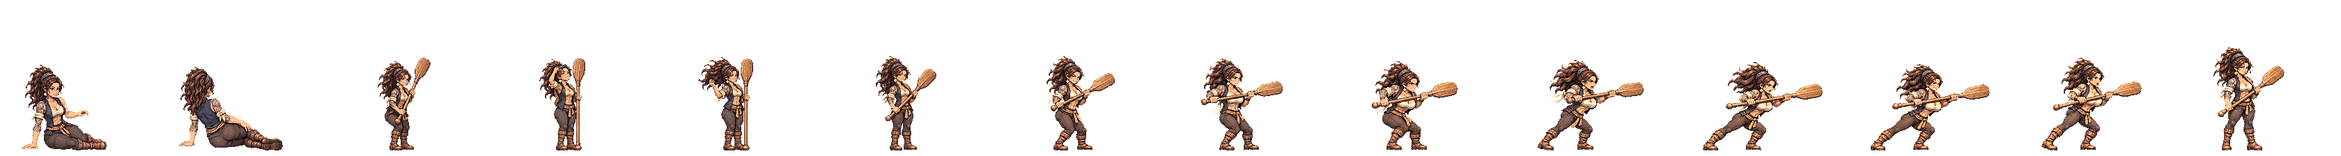
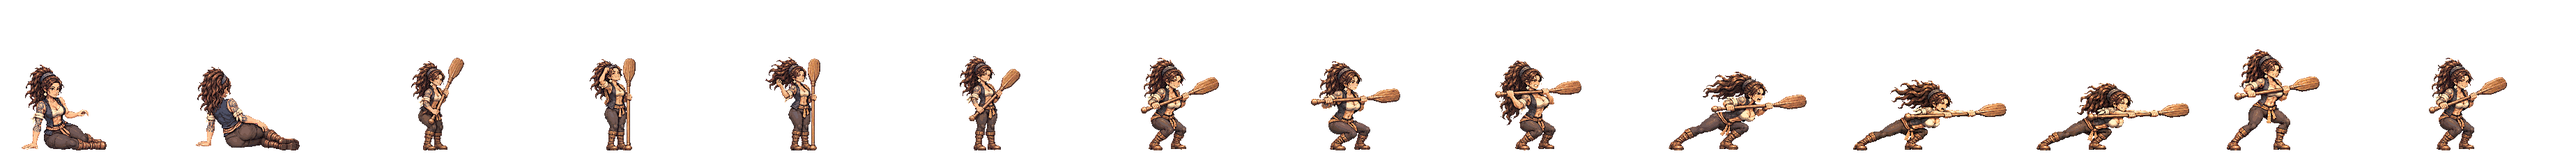
감평 뱃사공 노 찌르기를 새 인형으로 다시 · 걷기는 받은 그림 그대로
T15 · T16 다시를 받음(첫 b 판은 손이 셋). 다시 그린 판의 b 칸4 가 서기보다 14% 커(키 158) 좁은 칸이 잘려 불합격 → 다시 그리기는 한 번까지라 cells8 로 끝 칸을 a1 로, legacy 넷째도 a1. 서기↔공격 윗몸 어긋남 0 · 띠 검사 합격.

Claude-Session: https://claude.ai/code/session_01TRiuN7s6aDfSnaHxrkctmU

diff --git a/tools/sprite-kit/anim-harness.py b/tools/sprite-kit/anim-harness.py
@@ -59,7 +59,7 @@ HEROES = {
     'tomboy': dict(strip='gen-base-w-26-iseo-tomboy-general', atk='thrust', atk8=True, act=True, legacy=(('a', 2), ('a', 3), ('b', 3), ('b', 4))),   # 이서 말괄량이 장군(창 · 우람한 뼈대)
     'beol': dict(strip='gen-base-w-72-eumjeup-beol', atk='slash', atk8=True, act=True, legacy=(('a', 1), ('a', 3), ('b', 2), ('b', 4))),   # 음즙 벌(한 손 칼 · 우람한 뼈대) · 좁은 칸은 아라처럼 덜 뻗은 칸
     'tneoul': dict(strip='gen-tneoul', atk='thrust', src='thrust2', actw=264, atk8=True, act=True, legacy=(('a', 2), ('a', 3), ('b', 3), ('b', 4)), lock='face'),   # 탐라 너울(두 손 나무 노 · 가슴 L) · 머리 상자 묶기는 b-2 에서 얼굴 자리를 잘못 잡아 머리가 둘이 됐다(11-24) → 얼굴 안쪽만
-    'baetsa': dict(strip='gen-base-w-76-gampyeong-baetsagong', atk='thrust', atk8=True, act=True, legacy=(('a', 2), ('a', 3), ('b', 3), ('b', 4))),   # 감평 뱃사공(두 손 나무 노 · 가슴 XL)
+    'baetsa': dict(strip='gen-base-w-76-gampyeong-baetsagong', atk='thrust', src='thrust2', actw=264, atk8=True, act=True, legacy=(('a', 2), ('a', 3), ('b', 3), ('a', 1)), cells8=[('a', 1), ('a', 2), ('a', 3), ('a', 4), ('b', 1), ('b', 2), ('b', 3), ('a', 1)]),   # 감평 뱃사공(두 손 나무 노 · 가슴 XL) · 찌르기 b 칸4 가 서기보다 14% 크게 그려져(키 158 · 다시 그리기 한 번 씀) 끝 칸을 a1 로
     'odi': dict(strip='gen-odi', atk='thrust', src='thrust2', actw=264, atk8=True, act=True, legacy=(('a', 2), ('a', 3), ('b', 3), ('b', 4))),   # 조문 오디(창 · 가슴 XL)
     'deulme': dict(strip='gen-base-w-34-chopal-deulme', atk='thrust', src='thrust2', actw=264, atk8=True, act=True, legacy=(('a', 2), ('a', 3), ('b', 3), ('b', 4))),   # 초팔 들메(창 · 우람한 뼈대 · 가슴 L)
     'dana': dict(strip='gen-base-w-102-garak-dana', atk='bow', atk8=False),   # 가락 다나(활 · 가슴 XL)
